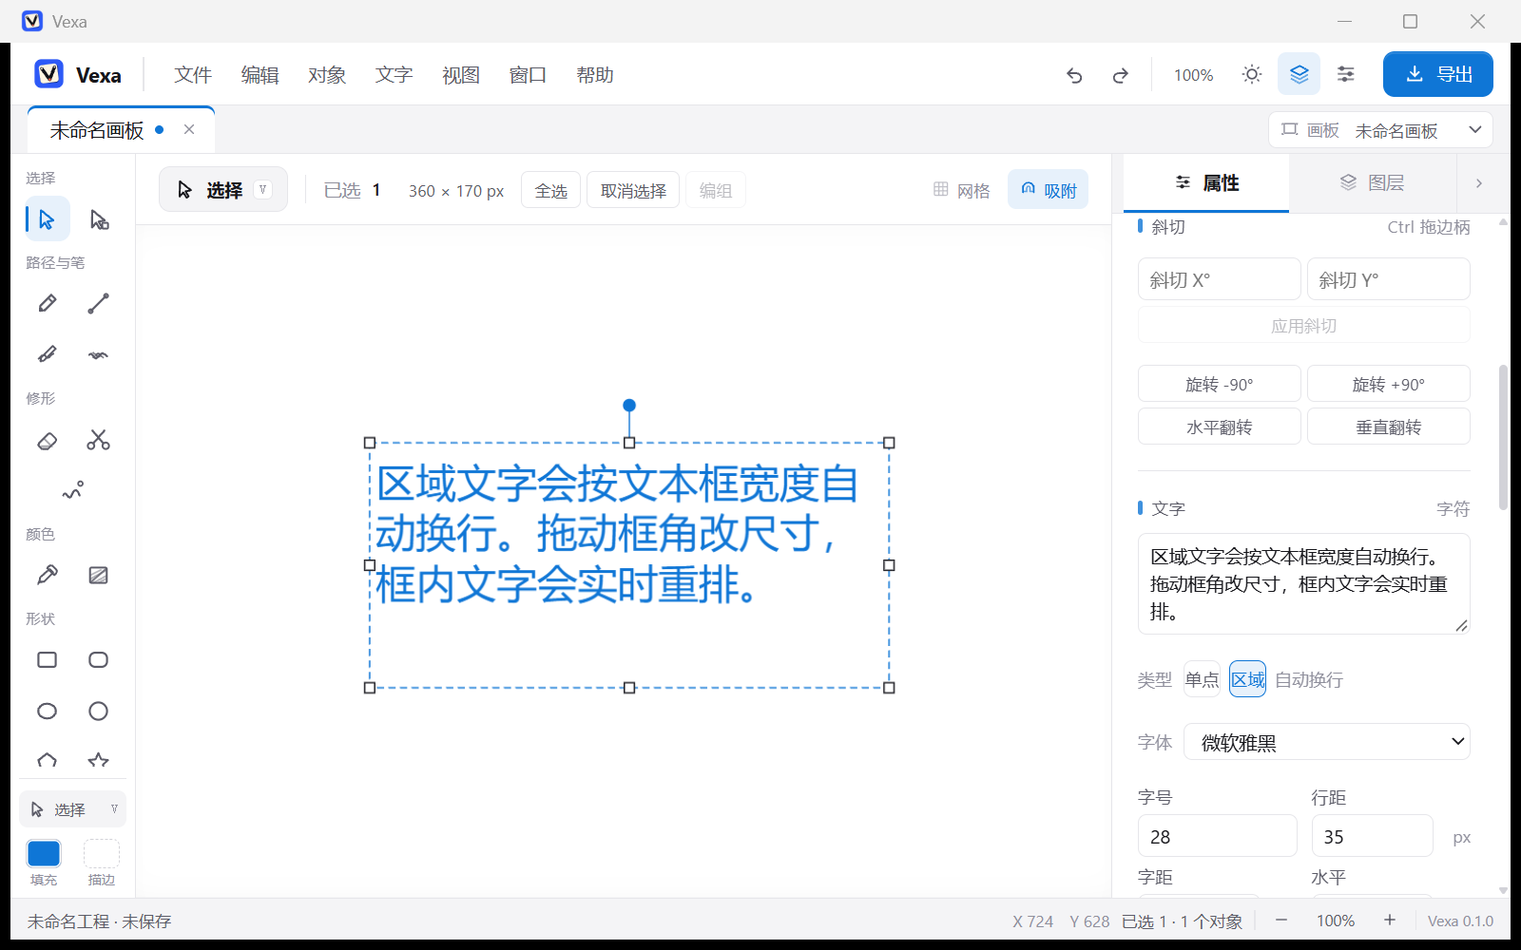
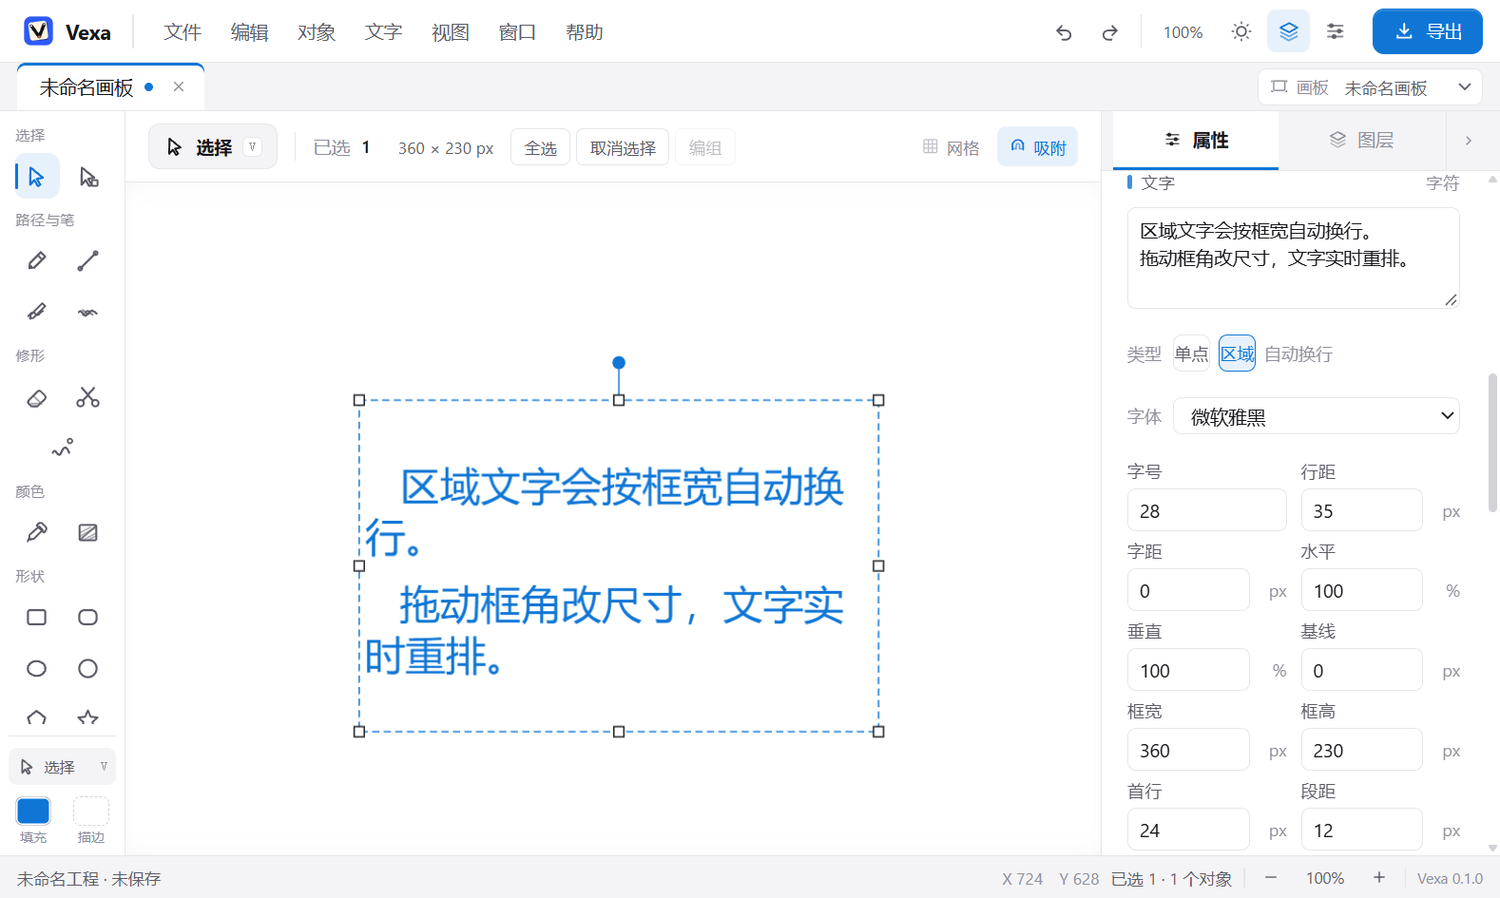
第四十六批：区域文字首行缩进、段距与框内垂直对齐

diff --git a/src/core/geom.ts b/src/core/geom.ts
@@ -155,10 +155,11 @@ export function textBox(node: TextNode): Box {
   return { x, y: node.y - (node.baseline ?? 0) - node.size * 1.2, w, h };
 }
 
-/** 按字符贪心换行；CJK 可逐字断，拉丁长词也会在框内断开。 */
+/** 按字符贪心换行；CJK 可逐字断，拉丁长词也会在框内断开。首行缩进只作用于每个段落第一行。 */
 function wrapAreaText(node: TextNode, innerW: number): string[][] {
   const tracking = node.tracking ?? 0;
   const hs = Math.abs((node.hScale ?? 100) / 100) || 1;
+  const indent = Math.max(0, Math.min(node.firstIndent ?? 0, innerW - 1));
   const paragraphs = node.text.split("\n");
   return paragraphs.map((para) => {
     const chars = Array.from(para);
@@ -166,13 +167,15 @@ function wrapAreaText(node: TextNode, innerW: number): string[][] {
     const lines: string[] = [];
     let cur = "";
     let curW = 0;
+    let limit = Math.max(1, innerW - indent);
     for (const ch of chars) {
       const cw = textEmWidth(ch) * node.size;
       const nextW = cur ? curW + tracking + cw : cw;
-      if (cur && (nextW * hs > innerW || nextW * hs < 0)) {
+      if (cur && (nextW * hs > limit || nextW * hs < 0)) {
         lines.push(cur);
         cur = ch;
         curW = cw;
+        limit = innerW;
       } else {
         cur += ch;
         curW = nextW;
@@ -193,21 +196,34 @@ export function textLayout(node: TextNode): TextLayout {
   if (mode === "area") {
     const box = textBox(node);
     const innerW = Math.max(1, box.w - AREA_INSET * 2);
+    const innerH = Math.max(1, box.h - AREA_INSET * 2);
+    const indent = Math.max(0, Math.min(node.firstIndent ?? 0, innerW - 1));
+    const paraSpace = Math.max(0, node.paraSpace ?? 0);
     const plan = wrapAreaText(node, innerW);
-    const firstBaseline = box.y + AREA_INSET + node.size * 1.2 - baselineOffset;
+    const gaps = Math.max(0, plan.length - 1);
+    const lineCount = plan.reduce((n, para) => n + para.length, 0);
+    const blockH = node.size * 1.2 + Math.max(0, lineCount - 1) * lh + gaps * paraSpace + node.size * 0.25;
+    const free = innerH - blockH;
+    const vAlign = node.areaVAlign ?? "top";
+    const topOffset = free > 0 ? (vAlign === "middle" ? free / 2 : vAlign === "bottom" ? free : 0) : 0;
+    let baseline = box.y + AREA_INSET + node.size * 1.2 - baselineOffset + topOffset;
     const lines: TextLineLayout[] = [];
-    for (const para of plan) {
-      for (const text of para) {
+    plan.forEach((para, pi) => {
+      para.forEach((text, li) => {
+        const lineIndent = li === 0 ? indent : 0;
+        const avail = Math.max(1, innerW - lineIndent);
         const width =
           textEmWidth(text) * node.size +
           Math.max(0, Array.from(text).length - 1) * (node.tracking ?? 0);
         const scaled = width * hs;
         const x =
-          box.x + AREA_INSET +
-          (align === "center" ? Math.max(0, innerW - scaled) / 2 : align === "right" ? Math.max(0, innerW - scaled) : 0);
-        lines.push({ text, x, baseline: firstBaseline + lines.length * lh, width });
-      }
-    }
+          box.x + AREA_INSET + lineIndent +
+          (align === "center" ? Math.max(0, avail - scaled) / 2 : align === "right" ? Math.max(0, avail - scaled) : 0);
+        lines.push({ text, x, baseline, width });
+        baseline += lh;
+      });
+      if (pi < plan.length - 1) baseline += paraSpace;
+    });
     const maxBaseline = box.y + box.h - AREA_INSET - node.size * 0.25;
     const overflow = lines.length > 0 && lines[lines.length - 1].baseline > maxBaseline;
     return { mode, lines, box, overflow };
@@ -252,6 +268,9 @@ export function convertTextMode(node: TextNode, mode: "point" | "area"): void {
   node.baseline = 0;
   delete node.boxW;
   delete node.boxH;
+  delete node.areaVAlign;
+  delete node.firstIndent;
+  delete node.paraSpace;
 }
 
 export function nodeBox(node: Node): Box {

diff --git a/src/ui/EditorShell.tsx b/src/ui/EditorShell.tsx
@@ -319,6 +319,8 @@ function fitNodes(nodes: Node[], board: Artboard, roots?: string[]): void {
       if ((n.textMode ?? "point") === "area") {
         n.boxW = Math.max(1, (n.boxW ?? 120) * Math.abs(s));
         n.boxH = Math.max(1, (n.boxH ?? 60) * Math.abs(s));
+        if (n.firstIndent) n.firstIndent *= Math.abs(s);
+        if (n.paraSpace) n.paraSpace *= Math.abs(s);
       }
       return;
     }
@@ -2634,9 +2636,39 @@ function Dock({ doc, ids, tab, onTab, store, onSelect, onToast, boardIndex, onBo
                           unit="px"
                           onCommit={(v) => setNode((n) => { if (n.kind === "text") n.boxH = Math.max(8, v); })}
                         />
+                        <NumField
+                          label="首行"
+                          value={Math.round(single.firstIndent ?? 0)}
+                          min={0}
+                          unit="px"
+                          onCommit={(v) => setNode((n) => { if (n.kind === "text") n.firstIndent = Math.max(0, v); })}
+                        />
+                        <NumField
+                          label="段距"
+                          value={Math.round(single.paraSpace ?? 0)}
+                          min={0}
+                          unit="px"
+                          onCommit={(v) => setNode((n) => { if (n.kind === "text") n.paraSpace = Math.max(0, v); })}
+                        />
                       </>
                     )}
                   </div>
+                  {single.textMode === "area" && (
+                    <div className="char-row">
+                      <span className="faint">垂直</span>
+                      {(["top", "middle", "bottom"] as const).map((v) => (
+                        <button
+                          key={v}
+                          className={"char-btn" + ((single.areaVAlign ?? "top") === v ? " is-on" : "")}
+                          onClick={() => setNode((n) => { if (n.kind === "text") n.areaVAlign = v; })}
+                          title={v === "top" ? "顶对齐" : v === "middle" ? "垂直居中" : "底对齐"}
+                        >
+                          {v === "top" ? "顶" : v === "middle" ? "中" : "底"}
+                        </button>
+                      ))}
+                      <span className="faint">框内对齐</span>
+                    </div>
+                  )}
                   <div className="char-row">
                     <span className="faint">样式</span>
                     <button

diff --git a/src/core/vex.ts b/src/core/vex.ts
@@ -77,6 +77,9 @@ export function parseVex(text: string): VexaDoc {
       } else {
         if (typeof n.boxW !== "number" || !(n.boxW > 0)) n.boxW = 120;
         if (typeof n.boxH !== "number" || !(n.boxH > 0)) n.boxH = 60;
+        if (n.areaVAlign !== "top" && n.areaVAlign !== "middle" && n.areaVAlign !== "bottom") delete n.areaVAlign;
+        if (typeof n.firstIndent !== "number" || !Number.isFinite(n.firstIndent) || n.firstIndent < 0) delete n.firstIndent;
+        if (typeof n.paraSpace !== "number" || !Number.isFinite(n.paraSpace) || n.paraSpace < 0) delete n.paraSpace;
       }
     }
     if (n.kind === "path" && n.stroke) {

diff --git a/src/core/types.ts b/src/core/types.ts
@@ -163,6 +163,12 @@ export interface TextNode {
   /** 区域文字框宽高，仅 textMode=area 时有效 */
   boxW?: number;
   boxH?: number;
+  /** 区域文字在框内的垂直对齐，默认 top。 */
+  areaVAlign?: "top" | "middle" | "bottom";
+  /** 段落首行缩进，单位 px；仅区域文字。 */
+  firstIndent?: number;
+  /** 段间距，单位 px；仅区域文字。 */
+  paraSpace?: number;
   fill: Paint;
   opacity: number;
   visible: boolean;

diff --git a/src/core/vectorOps.ts b/src/core/vectorOps.ts
@@ -312,6 +312,8 @@ export function scaleNodes(doc: VexaDoc, ids: string[], box: Box, sx: number, sy
       if ((n.textMode ?? "point") === "area") {
         n.boxW = Math.max(1, (n.boxW ?? 120) * sxAbs);
         n.boxH = Math.max(1, (n.boxH ?? 60) * syAbs);
+        if (n.firstIndent) n.firstIndent *= sxAbs;
+        if (n.paraSpace) n.paraSpace *= syAbs;
       }
     } else {
       for (const cid of n.children) {

diff --git a/docs/BUILD.md b/docs/BUILD.md
@@ -130,15 +130,16 @@ node mcp/smoke.mjs                 # MCP 端到端冒烟
 
 ## 发布构建
 
-- 版本：`0.1.0`（第四十五批：区域文字 / Area Type）
+- 版本：`0.1.0`（第四十六批：区域文字段落选项）
 - 文件：`release\Vexa.exe`
 - 大小：`7,812,096 B`
[1 lines of base64/hex data omitted]
-- 构建时间：`2026-11-27 19:49:42`
[1 lines of base64/hex data omitted]
+- 构建时间：`2026-11-27 20:01:39`
 - 命令：`npm run tauri:build`（内含 `tsc --noEmit && vite build`）→ 复制 `src-tauri\target\release\vexa.exe` 到 `release\Vexa.exe`
[1 lines of base64/hex data omitted]
-- 前端产物：`dist/assets/pdf-BozUk0It.js` 407.52 kB / gzip 169.34；`dist/assets/index-CgogtpYq.js` 540.89 kB / gzip 171.22；`dist/assets/index-DApU8VOk.css` 61.88 kB / gzip 11.56；`dist/assets/splash-bg-DgncLeTt.jpg` 86.90 kB
-- 区域文字验收（第四十五批）：`npx tsc --noEmit` 通过；`npm run build` 158 modules 通过；`npx tsx scripts/smoke.area-text.mts` 通过（180×80 框、20px 字断 5 行，行宽不越内框；框高压到 28px 检出溢出；居中行不越左右内框；模式互转与 `.vex` 往返保留 `textMode/boxW/boxH`；SVG 含 `clipPath` 与绝对 `tspan`；PDF 导出 `warnings 0`）。真实 Tauri/WebView2 1600×1000 窗口 100% 视图：文字工具拖出 `360×170` 区域框，输入 34 字后自动 3 行；属性坞显示“类型 单点 [区域] 自动换行”与“框宽/框高”；文字菜单提供“转区域文字 / 转单点文字”，转单点后框字段清空，`Ctrl+Z` 恢复 `360×170`；窗口无横向溢出。截图 `docs/shots/area-text.png`。
[1 lines of base64/hex data omitted]
+- 前端产物：`dist/assets/pdf-BQEwgWSU.js` 407.52 kB / gzip 169.34；`dist/assets/index-BzaFrLeU.js` 542.58 kB / gzip 171.67；`dist/assets/index-DApU8VOk.css` 61.88 kB / gzip 11.56；`dist/assets/splash-bg-DgncLeTt.jpg` 86.90 kB
+- 区域文字段落验收（第四十六批）：`npx tsc --noEmit` 通过；`npm run build` 158 modules 通过；`npx tsx scripts/smoke.area-text.mts` 通过（首行缩进 30px 时首行 x=134、第二行 x=104；段距 20px 时两段基线差 = 25+20；垂直居中首基线比顶对齐下移；`.vex` 往返保留 `areaVAlign/firstIndent/paraSpace`；SVG/PDF 通过）。真实 Tauri/WebView2 1600×1000 窗口 100% 视图：`360×230` 区域框，输入两段文字，属性坞设首行 24px、段距 12px、垂直“中”；画布两段之间出现 12px 段距，文本块在框内垂直居中，单点/区域菜单互转与 `Ctrl+Z` 恢复通过；窗口无横向溢出。截图 `docs/shots/area-text.png`。
+- 区域文字验收（第四十五批）：`npx tsc --noEmit` 通过；`npm run build` 158 modules 通过；`npx tsx scripts/smoke.area-text.mts` 通过（180×80 框、20px 字断 5 行，行宽不越内框；框高压到 28px 检出溢出；模式互转与 `.vex` 往返保留 `textMode/boxW/boxH`）。真实 Tauri/WebView2 1600×1000 窗口 100% 视图：文字工具拖出 `360×170` 区域框，输入 34 字后自动 3 行；属性坞显示“类型 单点 [区域] 自动换行”与“框宽/框高”；文字菜单提供“转区域文字 / 转单点文字”，转单点后框字段清空，`Ctrl+Z` 恢复。该批截图已按清理惯例删除，当前合并到第四十六批截图。
 - 画板裁剪验收（第四十三批）：`npx tsc --noEmit` 通过；`npm run build` 158 modules 通过；`npx tsx scripts/smoke.render.mts` 16 项 PASS，全部 21 个冒烟脚本复跑通过。`npm run tauri:build` 通过；真实 Tauri/WebView2 1600×1000 窗口在画板左边界跨画 `457.19×365.75` 矩形（X `-234.116`）：板外像素 `236,236,240`、板内 `15,118,214`；板外整段不显示，选择框/缩放柄/旋转柄只留在板内，中心在板外的手柄整颗跳过；板外点击“已选 0”、板内“已选 1”；画板外完全不可见矩形框选后仍“已选 0”。1500 个视口外节点 × 20 帧 `407.4ms → 23.3ms`（`17.49x`），600 个视口内板外节点 × 20 帧 `199.9ms → 10.5ms`。该批截图已按清理惯例删除。
 - 内切圆验收（第四十二批，历史）：`npx tsc --noEmit` 通过；`npm run build` 158 modules 通过；`npx tsx scripts/smoke.inscribed.mts` 17 项 PASS，全部 20 个冒烟脚本复跑通过。真实 Tauri/WebView2 1600×1000 窗口画 `426.71×365.75` 矩形：菜单与属性坞两个入口都落 1 个 `365.645×365.645` 内切圆，半径 `182.822`、圆心与矩形中心重合；撤销一次移除。该批截图已按清理惯例删除。
 - 三点圆 / Alt 验收（第四十一批，历史）：`npx tsc --noEmit` 通过；`npm run build` 157 modules 通过；`npx tsx scripts/smoke.circle.mts` 33 项 PASS，全部 19 个冒烟脚本复跑通过。`npm run tauri:build` 通过；真实 Tauri/WebView2 1600×1000 窗口在 33% 视图：标定 32 CSS px 圆 `97.5×97.5`；点 `(450,320)` 后按下 `(550,320)` 拖到 `(520,400)` 落三点圆 `346.0×346.0`，圆心 `(500,346.875)`，与直径圆 `324.0` 区分；Alt 水平拖 57 CSS px，直径 `173.7→150.0`，属性坞 `150×150`；三点共线释放不落对象；默认直径、从中心、Shift、两次点击、撤销与图层列表回归通过。该批截图已按清理惯例删除。

diff --git a/README.md b/README.md
@@ -24,7 +24,7 @@
 
 - **拉线成形**——钢笔工具笔笔跟手，直线一拖即出，自由铅笔松手自动抽稀 + 平滑；宽度工具在描边上拖出粗细变化，中心两侧同调、方块柄单侧调宽，双击删宽度点；橡皮按住一擦，填充图形挖洞、描边线条断开；锚点多选（拖框、Shift 加点、同步拖动、方向键微移、`Delete` 删点）、开放端点连接（含跨路径节点，`Ctrl+J`）与六向锚点对齐、水平/垂直等距分布、手柄、路径查找器（联合 / 相交 / 减去 / 排除 / 分割 / 修边 / 合并 / 裁剪 / 轮廓）都是基本功；剪刀工具点锚点切线，路径还能偏移、描边转轮廓、平滑
 - **导入起稿**——SVG 直接导成可编辑路径与文字：矩形/圆/多边形/直线、分组变换、线性/径向渐变、色标透明度、`fill-opacity` / `stroke-opacity`、`href` 渐变继承、`<use>` 引用、`<clipPath>` 组裁切（嵌套裁切取交集）与 symbol viewBox/宽高缩放都保留；`<text>` / `<tspan>` 保留字体、字号、字距与渐变填充，裁切里的字也能直接选中改；位图可以走本机 VTracer 描摹成路径。Vexa 画完导出 SVG，直接在 Groma 里导入，路径、渐变、描边、文本与内嵌图片都会保留；Vexa 只打开 `.vex` / `.svg`，不导入 Groma 工程；PNG/JPG 不归 Vexa，交给 Strata
-- **编排成图**——可展开组的图层树，任意层级都能拖：组内排序、把子层拖出组、把顶层拖入组，落点有线/胶囊提示；Ctrl/Shift 多选后批量显隐/锁定；图层可搜名称或类型、按 6 色标记筛选，属性坞给单层/多层统一打标；属性坞对单选和多选都显示 X/Y/W/H，组递归缩放、文字精确落到目标宽高，附旋转 ±90°、水平/垂直翻转与数值/Ctrl 拖边柄斜切（±80°，Shift 15° 吸附）；实色填充、描边、画板底色带 12 色板与最近 10 色；文档级全局色/专色，色板可新建、改名改色、删除与导入导出 JSON，链接的填充/描边随色板同步；编组、对齐分布、渐变与描边、吸管取色、画布拖渐变方向、混合模式与剪切蒙版、字符面板（字体/字号/行距/字距/粗斜体/对齐/横纵缩放/基线）、区域文字（拖框创建、框内自动换行、框宽高与溢出标记、单点互转）、画板能直接在画布上拖着开、拖着改，画板面板内置 6 个尺寸预设，支持自定义预设保存/导入与删除、一键适配内容（计入描边宽度、忽略隐藏层）、复制画板连内容、上下换序；文件菜单的“文档设置”可改文档名、当前画板名/尺寸/背景，勾选后把尺寸与背景同步到全部画板（画板名仍只改当前板），带 1–20000 px 校验与单次撤销，路径用平滑工具一刷就顺；线性/径向渐变支持多色标增删、独立透明度、插值中点与画布色标直拖，描边端帽与拐角连接可切；拖动、画线、铅笔、橡皮只重绘画布，平移/缩放每帧不惊动 React 壳层，光标坐标只更新状态栏文本，属性坞与图层名输入在松手/失焦后统一提交；画布重绘合并到一帧，拖动不闪
+- **编排成图**——可展开组的图层树，任意层级都能拖：组内排序、把子层拖出组、把顶层拖入组，落点有线/胶囊提示；Ctrl/Shift 多选后批量显隐/锁定；图层可搜名称或类型、按 6 色标记筛选，属性坞给单层/多层统一打标；属性坞对单选和多选都显示 X/Y/W/H，组递归缩放、文字精确落到目标宽高，附旋转 ±90°、水平/垂直翻转与数值/Ctrl 拖边柄斜切（±80°，Shift 15° 吸附）；实色填充、描边、画板底色带 12 色板与最近 10 色；文档级全局色/专色，色板可新建、改名改色、删除与导入导出 JSON，链接的填充/描边随色板同步；编组、对齐分布、渐变与描边、吸管取色、画布拖渐变方向、混合模式与剪切蒙版、字符面板（字体/字号/行距/字距/粗斜体/对齐/横纵缩放/基线）、区域文字（拖框创建、框内自动换行、框宽高与溢出标记、首行缩进/段距/垂直对齐、单点互转）、画板能直接在画布上拖着开、拖着改，画板面板内置 6 个尺寸预设，支持自定义预设保存/导入与删除、一键适配内容（计入描边宽度、忽略隐藏层）、复制画板连内容、上下换序；文件菜单的“文档设置”可改文档名、当前画板名/尺寸/背景，勾选后把尺寸与背景同步到全部画板（画板名仍只改当前板），带 1–20000 px 校验与单次撤销，路径用平滑工具一刷就顺；线性/径向渐变支持多色标增删、独立透明度、插值中点与画布色标直拖，描边端帽与拐角连接可切；拖动、画线、铅笔、橡皮只重绘画布，平移/缩放每帧不惊动 React 壳层，光标坐标只更新状态栏文本，属性坞与图层名输入在松手/失焦后统一提交；画布重绘合并到一帧，拖动不闪
 - **导出成稿**——SVG / PNG / PDF 一键导出，倍率随便选，给开发给印刷都不虚；PDF 每个画板一页，原生线性/径向渐变、文字轮廓与透明位图都保持矢量，可全本地写盘
 
 ---

diff --git a/docs/PARITY.md b/docs/PARITY.md
@@ -581,14 +581,25 @@
 | 单点 ↔ 区域 | 属性坞“单点 / 区域”切换与“文字 → 转区域文字 / 转单点文字”双向转换，保留可见文字与大致位置 | 转换后 `.vex` 往返保留 `textMode/boxW/boxH`，再转回单点会清掉框字段 |
 | 导出与 PDF | SVG 输出 `clipPath` 框裁切 + 每行绝对 `tspan x/y`；PDF 用同一换行结果并按框矩形裁切 | 冒烟 SVG 含 `clipPath` 与绝对定位 `tspan`；PDF 冒烟 `warnings 0`，区域文字不越框 |
 
-已知边界：区域文字目前只做横排、单栏，不含首行缩进、段间距、避头尾与垂直对齐；换行宽度用字宽近似，极端字偶/连字可能与 Canvas 实际宽度有 1–2px 差；PDF 区域文字仍转轮廓，不可选中/搜索。
+已知边界：区域文字目前只做横排、单栏，首行缩进/段距/垂直对齐已在第四十六批补齐；仍不含避头尾与悬挂缩进；换行宽度用字宽近似，极端字偶/连字可能与 Canvas 实际宽度有 1–2px 差；PDF 区域文字仍转轮廓，不可选中/搜索。
+
+## 1.40 第四十六批已对齐（区域文字段落选项）
+
+| 能力 | Vexa 实现 | 验收 |
+|---|---|---|
+| 首行缩进 | `firstIndent` 单位 px，每个段落第一行按缩进减可用宽并右移起点；后续行恢复整框宽 | 冒烟：180px 框、30px 首行缩进，首行 x=134，第二行回到 x=104 |
+| 段间距 | `paraSpace` 单位 px，段落最后一行后追加到下一段第一行基线；不叠加到末段 | 冒烟：20px 字、1.25 行距、20px 段距，两段基线差 = 25 + 20 |
+| 框内垂直对齐 | `areaVAlign` 三档顶/中/底；先算文本块高，再在框内偏移首基线；文本高于框时退回顶对齐并显示溢出 | 冒烟：同一两段文本，垂直居中首基线比顶对齐下移；属性坞“顶/中/底”可切换 |
+| 面板与导出 | 属性坞区域文字多出“首行 / 段距”数值与“垂直”三键；画布、SVG、PDF 继续共用 `textLayout` | 真实窗口设置首行 24px、段距 12px、垂直居中，节点字段与画面同步；SVG/PDF 冒烟通过 |
+
+已知边界：首行缩进只缩进段落第一行，不支持悬挂缩进/左右缩进；段距不参与首段前与末段后；垂直对齐只对未溢出文本生效；避头尾、制表符与 OpenType 段落特性仍未做。
 
 ## 2. 部分对齐
 
 | 能力 | 现状 | 差什么 |
 |---|---|---|
 | 路径布尔 | 多边形级（拍平后运算） | 曲线保真布尔（参考 `pathops/boolean.rs` 80 KB 思路）；形状边界会退化为折线，锚点数偏多 |
-| 文字 | 单点文字 + 区域文字（自动换行/框尺寸/溢出标记/双向转换）+ 字符面板 | 路径文字、段落面板（避头尾、首行缩进、段间距）、文字转路径 |
+| 文字 | 单点文字 + 区域文字（自动换行/框尺寸/溢出标记/双向转换/首行缩进/段距/垂直对齐）+ 字符面板 | 路径文字、避头尾/悬挂缩进、文字转路径 |
 | 可变宽度描边 | 画布与 SVG 轮廓填充、宽度点编辑、余弦过渡 | 虚线不随宽度轮廓走（有宽度点时按实线轮廓输出）；箭头仍按基础线宽绘制；端帽 / 连接类型目前只作用于普通均匀描边，宽度轮廓仍是平头外框；宽度点手柄只画在第一条子路径，复合路径各子路径共用同一 `t` 轮廓 |
 | 渐变 | 线性/径向均支持多色标、透明度、中点、画布轴线与色标直拖、`.vex` 往返、MCP `fill.stops` | 网格渐变、自由渐变、渐变描边尚未做；径向渐变的画布手柄只沿一条半径显示，不能改圆心位置/半径 |
 | SVG | 导出（组、线性/径向渐变、虚线、箭头、混合模式、剪切蒙版）；导入基础图形、变换、线性/径向渐变、色标透明度、`href` 继承、`fill/stroke-opacity`、`<text>` 可编辑文字、`<use>` 引用、`<clipPath>` 组裁切与 symbol viewBox 缩放 | 导入仍不含 `objectBoundingBox` 剪裁、图案、滤镜、`mask`；clipPath 的 even-odd 孔洞与 `slice` 对齐未细分；文本旋转/斜切只映射位置与缩放、不旋转字形；`gradientTransform`、`spreadMethod` 径向的 `cx/cy/r` 暂按 Vexa 的 bbox 规则近似 |
@@ -618,8 +629,8 @@
 - 符号、样式、画笔（参考 `brush` crate）
 
 **P4 · 文字**
-- 区域文字已在第四十五批完成（拖框创建、框内自动换行、框宽高、溢出标记、单点互转、SVG/PDF 导出）；仍缺段落文字、路径文字（参考 `text/shape.rs`、`text/retype.rs`）
-- 字符/段落面板、OpenType 特性、竖排
+- 区域文字已在第四十五批完成（拖框创建、框内自动换行、框宽高、溢出标记、单点互转、SVG/PDF 导出），第四十六批补首行缩进、段距与框内垂直对齐；仍缺段落文字、路径文字（参考 `text/shape.rs`、`text/retype.rs`）
+- 字符/段落面板已覆盖字体、字号、行距、字距、粗斜体、对齐、横纵缩放、基线、首行缩进、段距、垂直对齐；仍缺避头尾、OpenType 特性、竖排
 
 **P5 · 导入导出**
 - PDF 导入（`pdf` 2.1 MB）；PDF 导出已完成第十七批
